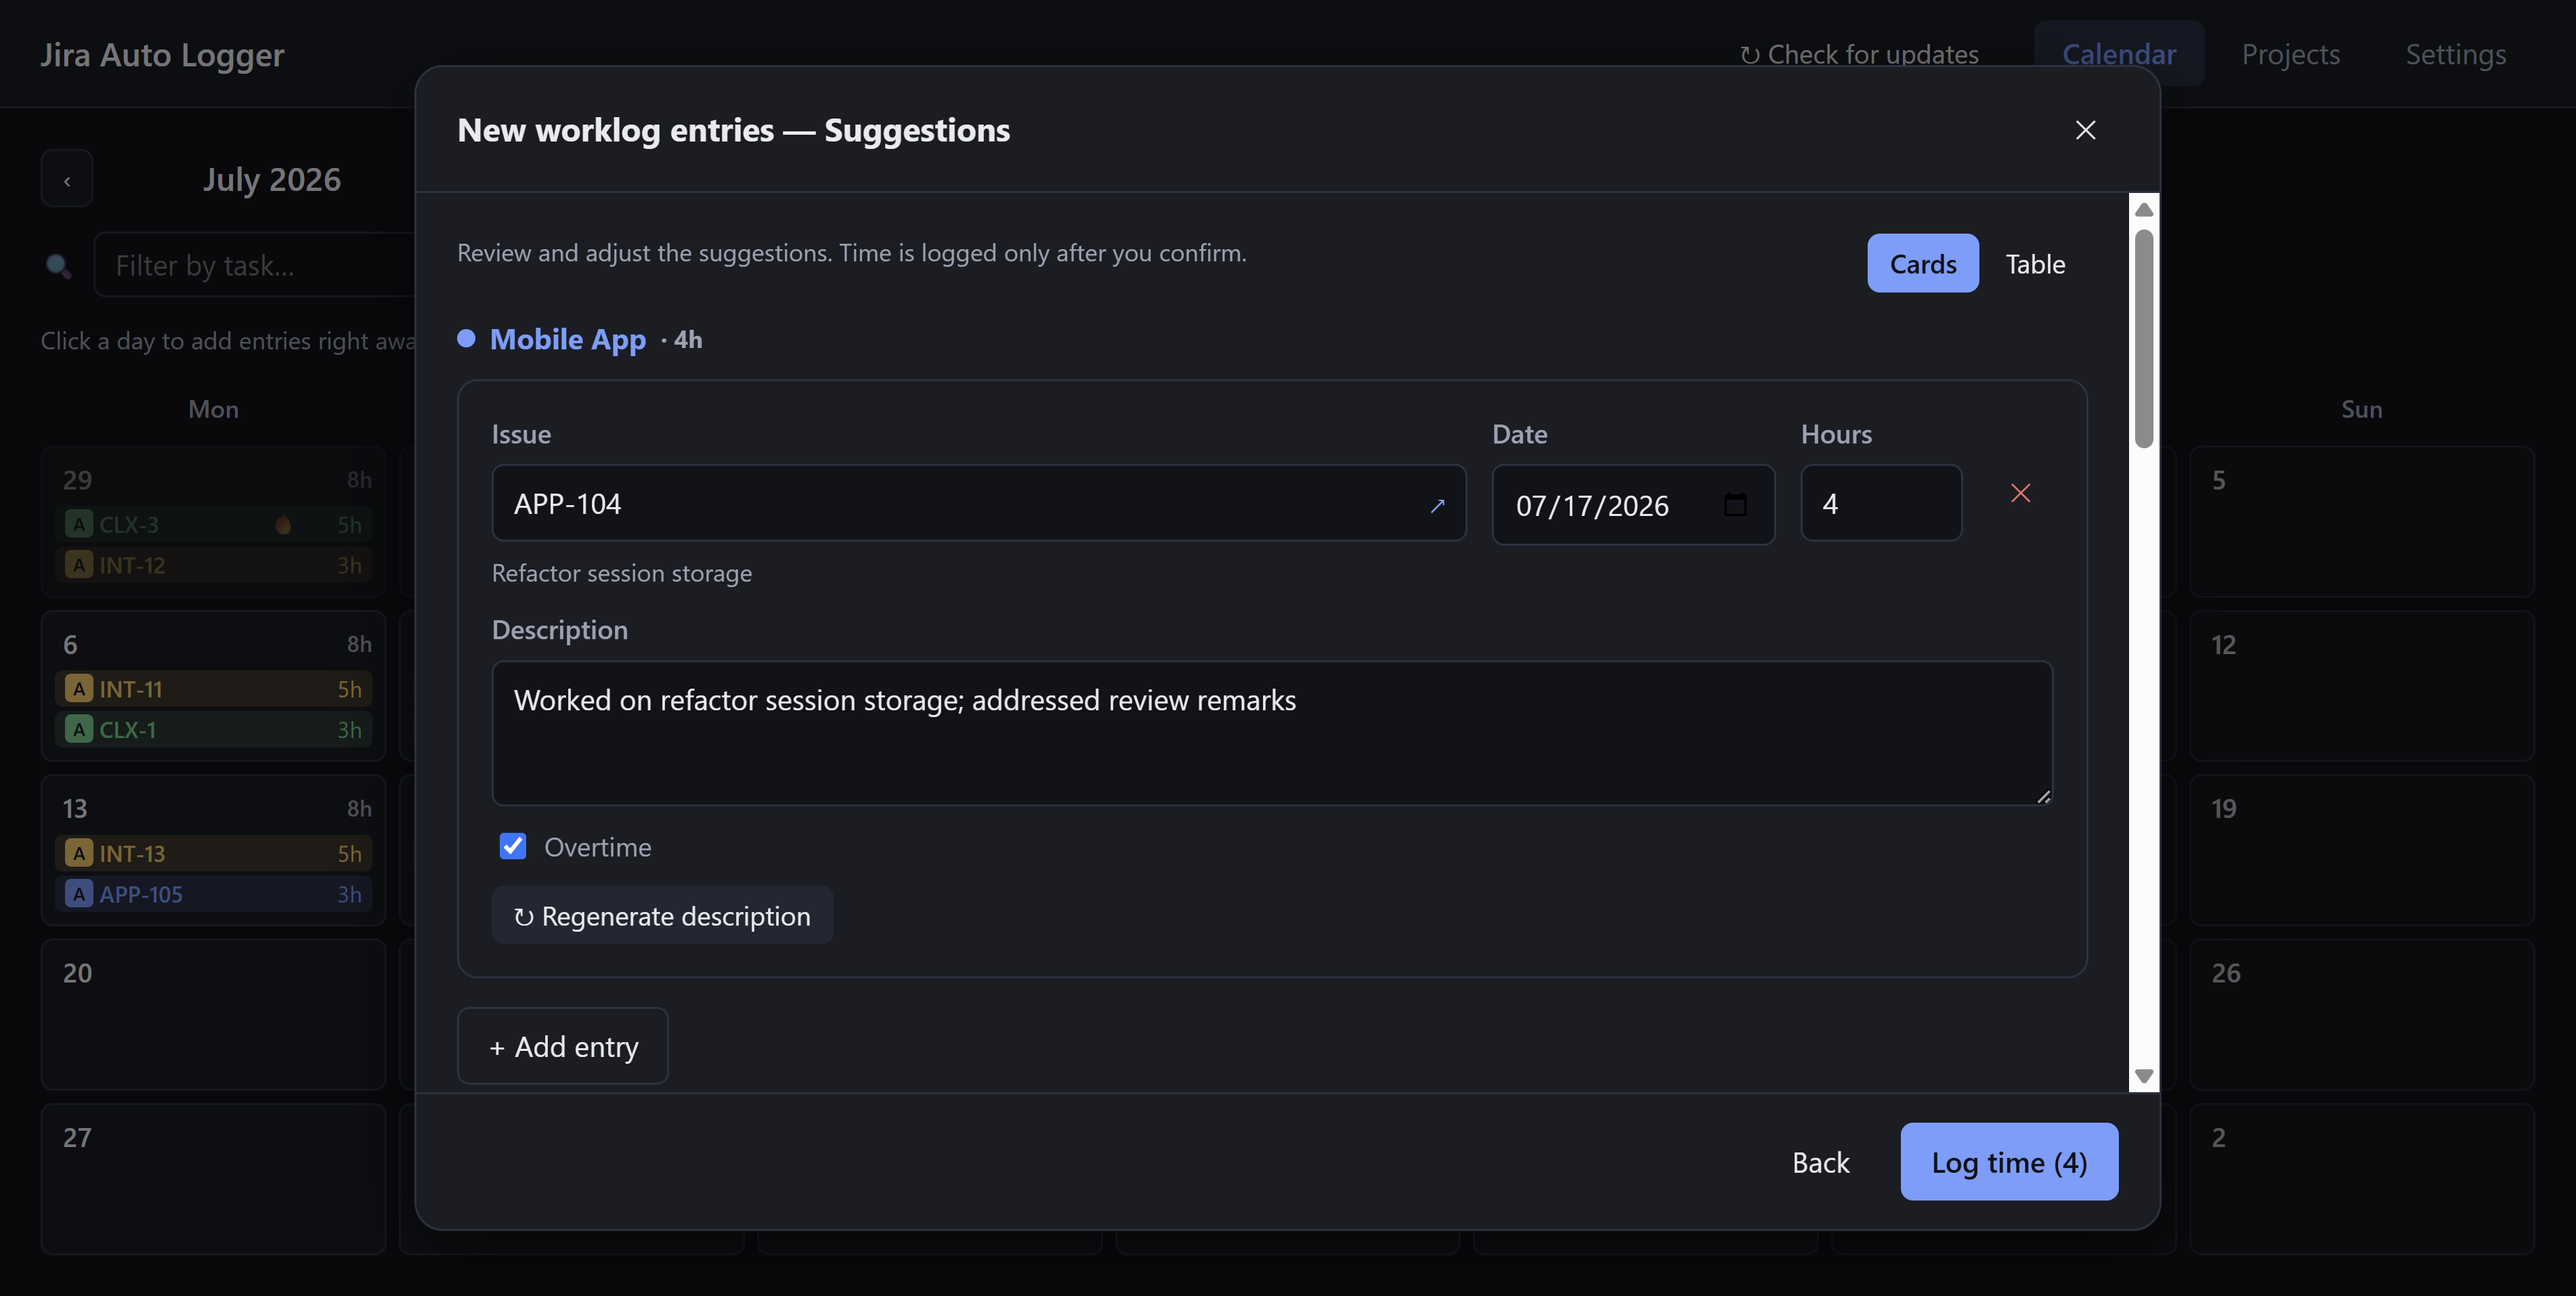
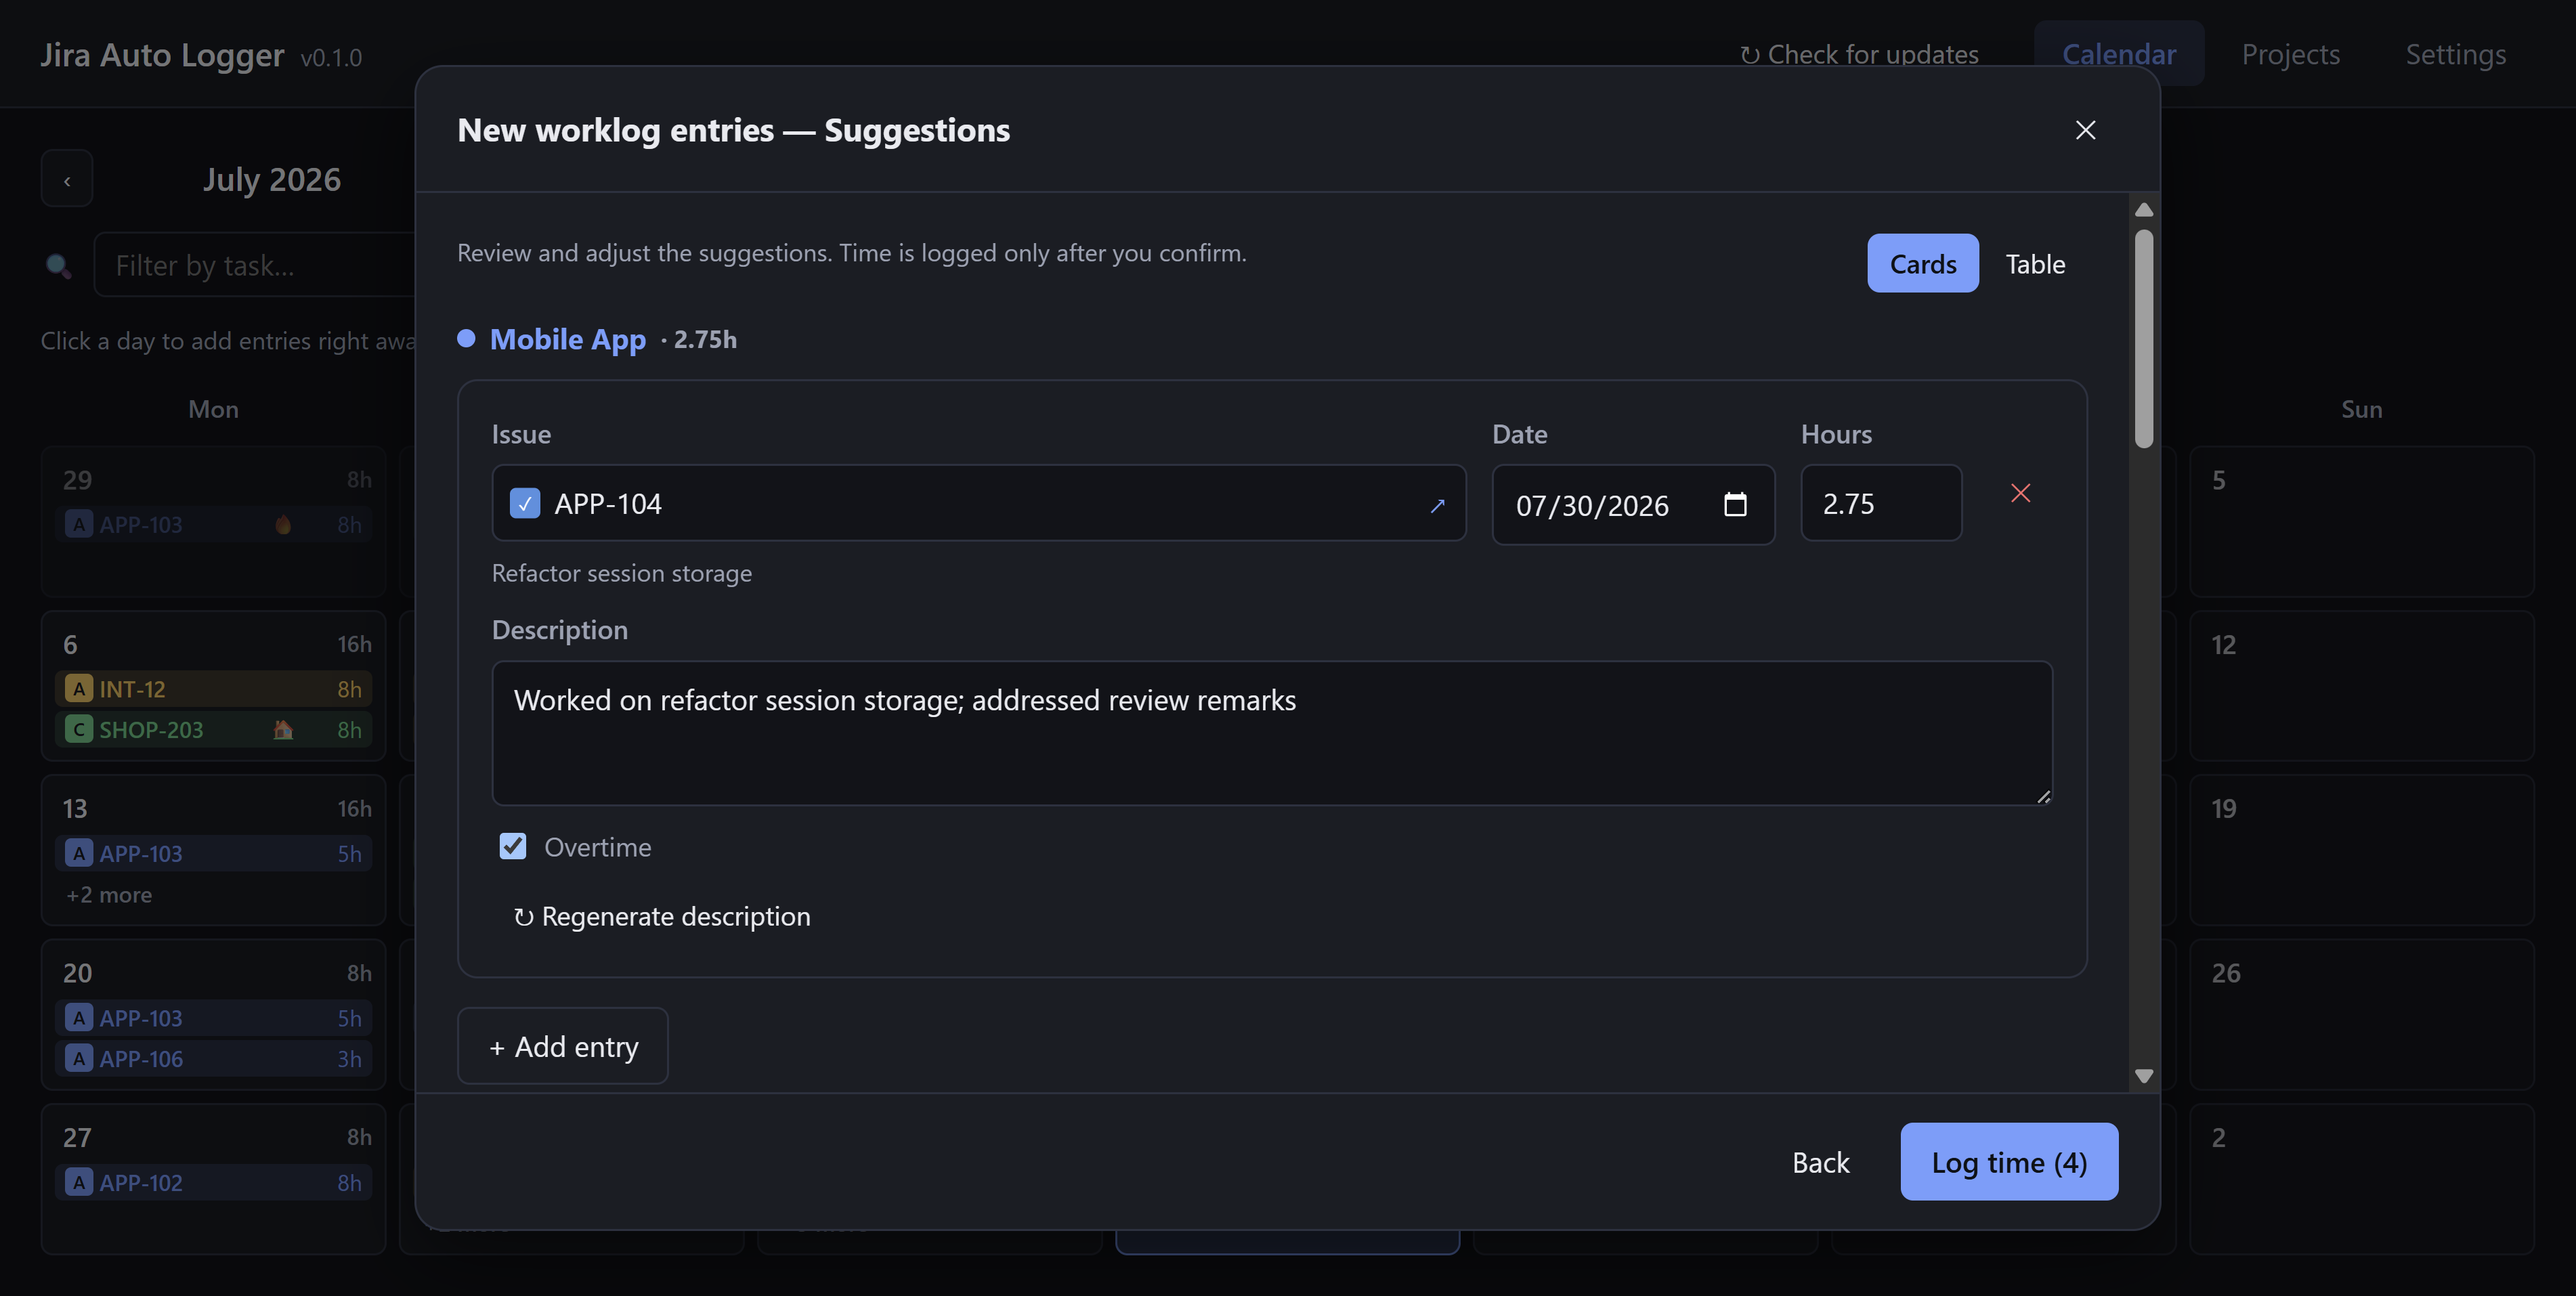
Fix mock mode suggesting nothing on a day that has entries
The fake LLM subtracted the hours already logged across ALL projects from a
single project's *share* of the day, so any day carrying 4h or more came out
with zero entries - and the screenshot driver deliberately opens the wizard on a
populated day, so `npm run screenshots` captured the "no usable suggestions"
error instead of the review step.

- The mock now mirrors the real prompt: take the logged hours off the whole
  day's budget first, then log this project's share of what remains. The budget
  is read back out of the rendered prompt (`{{workingHoursPerDay}}` is
  substituted into the text, not into the input JSON) and falls back to 8.
- A share of 4h or more is still split into two entries, so the single-project
  full-day case keeps producing the same 5h + 3h it did before.
- The screenshot driver opens the wizard on a weekday with no entries. On a day
  the mock history already filled, an empty suggestion list is the correct
  answer, not something to work around.

Screenshots regenerated; wizard-suggestions.png shows the review step again.

diff --git a/src/main/services/mock/clients.ts b/src/main/services/mock/clients.ts
@@ -213,18 +213,22 @@ export class MockLlmProvider implements LlmProvider {
     const input = this.extractInput(prompt)
     if (!input) return '[]'
     const random = mulberry32(input.issues.length * 7 + input.dates.length)
-    const perDay = input.projectCount > 1 ? [4] : [5, 3]
-    const dayTarget = perDay.reduce((sum, h) => sum + h, 0)
+    const workingHours = this.extractWorkingHours(prompt)
 
     const entries = input.dates.flatMap((date) => {
-      // Only fill the day's remaining budget, mirroring the real prompt so the
-      // "already has entries" case does not double-log a full day.
-      const remaining = Math.max(0, dayTarget - (input.hoursAlreadyLogged?.[date] ?? 0))
-      if (remaining <= 0) return []
-      const scale = remaining / dayTarget
-      return perDay
-        .map((hours, slot) => {
-          const scaled = Math.round(hours * scale * 4) / 4
+      // Mirror the real prompt: take what is already logged across ALL projects
+      // off the WHOLE day first, then log this project's share of what is left.
+      // Subtracting it from the share instead made every day that already had a
+      // few hours on it produce nothing at all.
+      const remaining = Math.max(0, workingHours - (input.hoursAlreadyLogged?.[date] ?? 0))
+      const share = input.projectCount > 1 ? remaining / input.projectCount : remaining
+      // Below a quarter of an hour there is nothing worth logging.
+      if (share < 0.25) return []
+      // A big share reads more like a real day when it is split in two.
+      const slots = share >= 4 ? [0.625, 0.375] : [1]
+      return slots
+        .map((fraction, slot) => {
+          const scaled = Math.round(share * fraction * 4) / 4
           if (scaled <= 0) return null
           const issue = input.issues[Math.floor(random() * Math.max(input.issues.length, 1))]
           const customFields = Object.fromEntries(
@@ -246,6 +250,16 @@ export class MockLlmProvider implements LlmProvider {
         .filter((entry): entry is NonNullable<typeof entry> => entry !== null)
     })
     return JSON.stringify(entries)
+  }
+
+  /**
+   * The day budget lives in the prompt text (`{{workingHoursPerDay}}`), not in
+   * the input JSON, so it has to be read back out of the rendered prompt. Falls
+   * back to 8 if the wording ever changes, which keeps mock mode working.
+   */
+  private extractWorkingHours(prompt: string): number {
+    const hours = Number(prompt.match(/sums to about ([\d.]+) hours/)?.[1])
+    return Number.isFinite(hours) && hours > 0 ? hours : 8
   }
 
   private extractInput(prompt: string): MockPromptInput | null {

diff --git a/src/main/screenshotMode.ts b/src/main/screenshotMode.ts
@@ -53,13 +53,16 @@ export async function runScreenshotMode(window: BrowserWindow, dir: string): Pro
     await clickTab(0)
     await sleep(1200)
 
-    // Open the wizard by clicking a mid-month weekday cell. The mouseup must
-    // come a beat later: the calendar attaches its listener in an effect
-    // after the mousedown re-render.
+    // Open the wizard by clicking a weekday cell that has no entries yet.
+    // Suggestions only top a day up to the working-hours budget, so a day the
+    // mock history already filled would legitimately yield nothing and the
+    // capture would show the "no usable suggestions" error instead.
+    // The mouseup must come a beat later: the calendar attaches its listener in
+    // an effect after the mousedown re-render.
     await js(`(() => {
       const cells = [...document.querySelectorAll('.calendar-day:not(.outside):not(.weekend)')]
-      const withEntries = cells.filter((c) => c.querySelector('.calendar-entry'))
-      const cell = withEntries[Math.floor(withEntries.length / 2)] ?? cells[10]
+      const empty = cells.filter((c) => !c.querySelector('.calendar-entry'))
+      const cell = empty[0] ?? cells[10]
       cell.dispatchEvent(new MouseEvent('mousedown', { bubbles: true, button: 0 }))
     })()`)
     await sleep(300)
